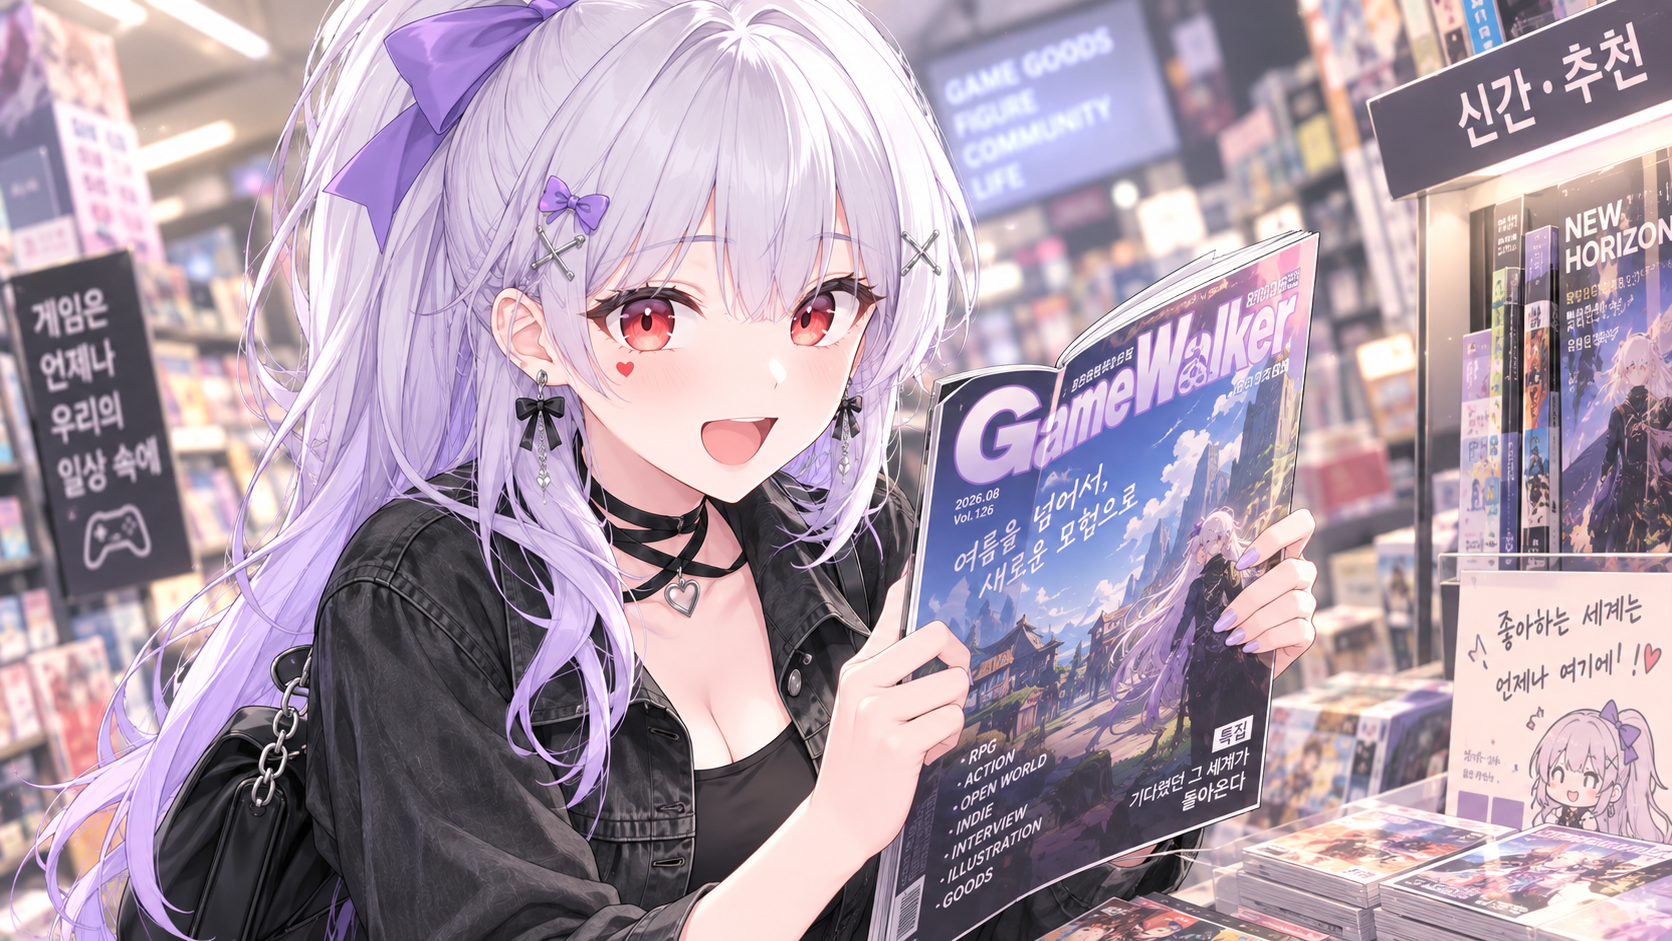
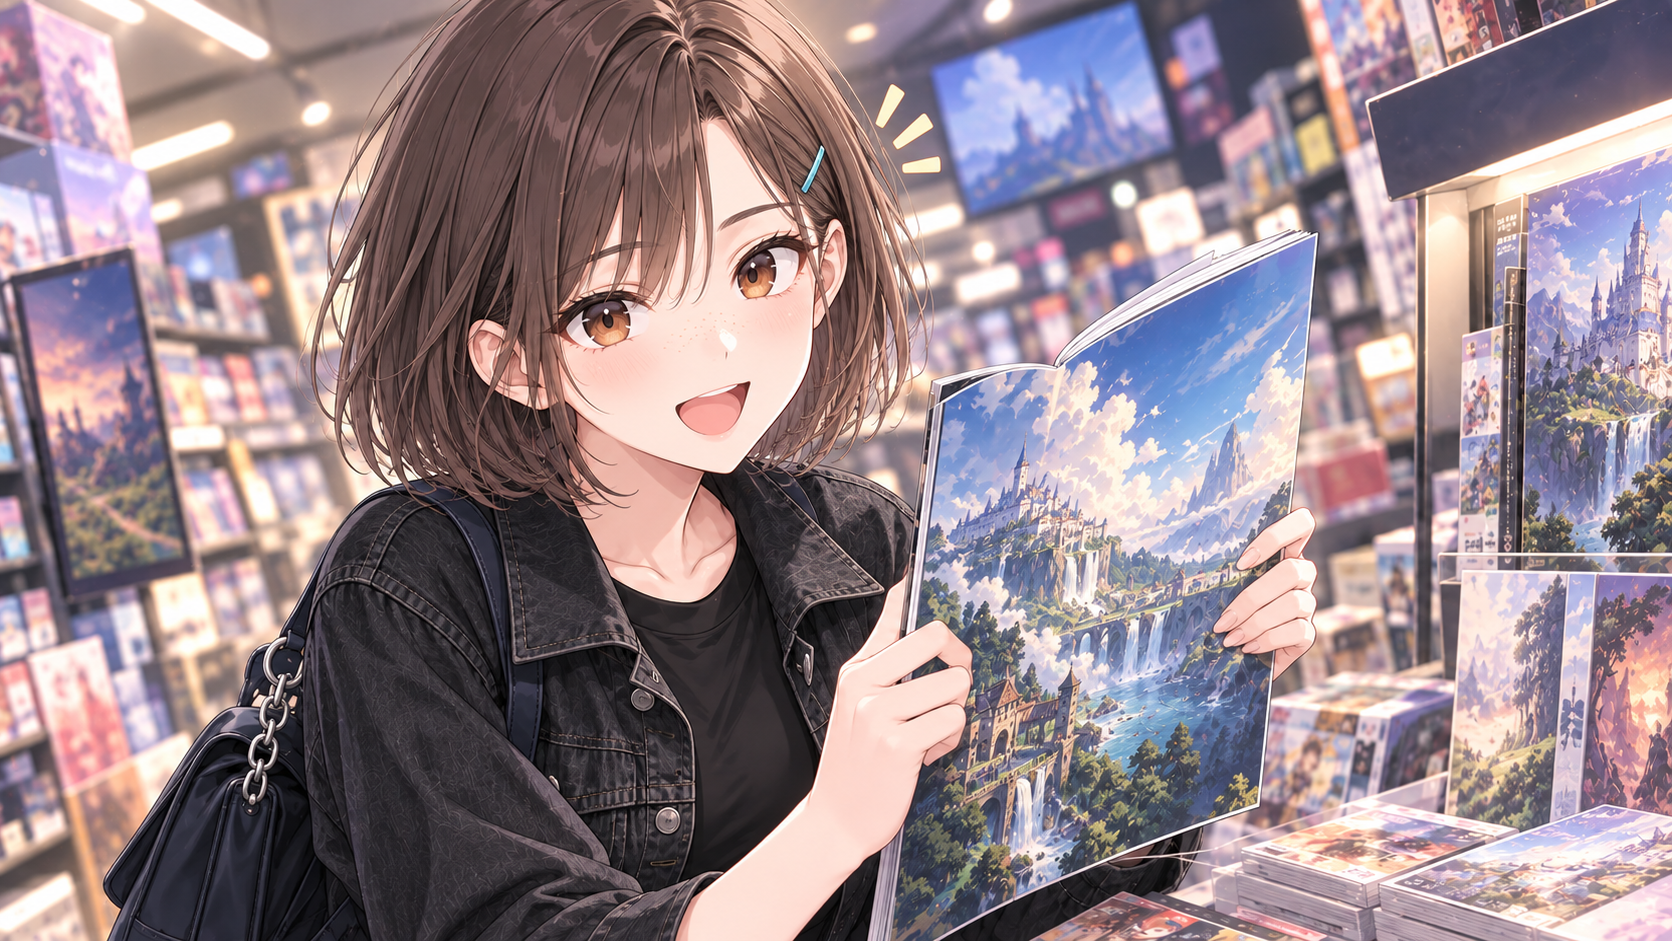
CH12 꾸민 의상 CG 교체

diff --git a/docs/illustration-replacement-prompts.md b/docs/illustration-replacement-prompts.md
@@ -244,7 +244,7 @@ CG는 공통 CG 블록과 파일별 장면 프롬프트를 이어 붙인다. 무
 | [cg-11.png](../assets/cg/cg-11.png) · CH10 동아리 활동 | 원본의 구도와 자세를 유지한다. 화면 중앙 왼쪽 나무 의자에 앉은 온이유가 몸을 오른쪽으로 돌리고, 고개와 시선은 캔버스에 둔다. 오른팔을 화면 중앙을 가로질러 뻗어 오른쪽 전경의 큰 캔버스에 붓을 대며, 다른 손의 팔레트는 무릎 가까운 아래쪽 중앙 오른편에 둔다. 왼쪽 아래 전경에는 흐릿한 물감병과 붓을 두고, 뒤에는 이젤과 작업대·밤 창문을 배치하며 위쪽 따뜻한 펜던트 조명을 유지한다. 새 캐릭터 외형과 교복 위의 물감 묻은 앞치마를 적용하고, 칠판·그림·소품에는 읽을 수 있는 글자·로고를 넣지 않는다. |
 | [cg-12.png](../assets/cg/cg-12.png) · CH11 방학 계획 | 원본의 구도와 자세를 유지한다. 책상 뒤 중앙에 앉은 온이유가 오른쪽 팔꿈치를 책상에 대고 손으로 뺨을 받치며, 왼손으로 화면 왼쪽 어깨 옆에 펼친 접이식 부채를 든다. 책상은 화면 아래 전체를 가로지르고 중앙 아래에 스케치북, 오른쪽 아래에 책 더미와 잘린 전경 필통을 둔다. 맨 오른쪽 가장자리에는 크게 잘린 탁상용 선풍기와 물병을 배치한다. 왼쪽 배경에는 칠판, 뒤에는 책상과 의자, 오른쪽 위에는 열린 창과 여름 하늘을 둔다. 새 캐릭터 외형과 교복을 적용하고 칠판·종이·물병에 읽을 수 있는 글자·로고를 넣지 않는다. |
 | [cg-13-1.png](../assets/cg/cg-13-1.png) · CH12 우연한 만남, 기본 의상 | 원본의 구도와 자세를 유지한다. 허리 위로 보이는 온이유를 왼쪽 절반에 두고, 몸을 오른쪽으로 살짝 돌린 채 밝은 표정으로 화면을 바라본다. 가방끈을 어깨에 걸고 양손으로 중앙 오른쪽의 큰 잡지를 비스듬히 들어 보여주며, 한쪽 검지는 표지를 가리킨다. 머리 옆의 작은 강조선을 살린다. 왼쪽 배경은 흐린 서가, 오른쪽은 게임 잡지와 진열 케이스가 빽빽한 매대로 구성한다. 새 캐릭터 외형과 흰 티셔츠·데님 하의를 적용하고, 표지와 상품에는 글자·로고·인물 초상 없이 가상의 풍경 그래픽만 넣는다. |
-| [cg-13-2.png](../assets/cg/cg-13-2.png) · CH12 우연한 만남, 꾸민 의상 | 같은 서점의 게임 잡지 매대에서 검정 데님 재킷과 검정 바지 차림의 온이유가 잡지를 들고 반갑게 인사한다. 기본 의상 변형과 같은 서사 순간이지만 화면 배치와 손동작은 새로 구성한다. |
+| [cg-13-2.png](../assets/cg/cg-13-2.png) · CH12 우연한 만남, 꾸민 의상 | 원본의 구도와 자세를 유지한다. 허리 위로 보이는 온이유를 화면 왼쪽 절반에 크게 두고, 몸을 오른쪽으로 살짝 돌린 채 밝은 표정으로 바라본다. 중앙 오른쪽에는 크게 비스듬히 세운 잡지를 두고 양손으로 받친다. 한 손은 잡지의 왼쪽 아래를 받치며 표지를 가리키고, 다른 손은 오른쪽 가장자리를 잡는다. 화면 아래 왼쪽에는 은색 체인 장식이 달린 검정 가방을 둔다. 왼쪽은 흐린 서가, 오른쪽은 게임 잡지와 진열 케이스가 빽빽한 매대인 서점 배경을 유지한다. 새 캐릭터 외형에 짧은 검정 데님 재킷과 단정한 검정 상의를 적용한다. 잡지 표지에는 인물이나 읽을 수 있는 글자·로고 없이 가상의 풍경 그래픽만 넣는다. |
 | [cg-14-1.png](../assets/cg/cg-14-1.png) · CH13 첫 데이트, 기본 의상 | 첫 데이트의 해질녘 거리, 편안한 캐주얼 옷차림의 온이유가 따뜻한 가로등 아래 잠깐 걸음을 멈추고 상대를 바라본다. 설렘과 긴장이 섞인 작은 미소, 배경에는 부드러운 보케 조명. |
 | [cg-14-2.png](../assets/cg/cg-14-2.png) · CH13 첫 데이트, 꾸민 의상 | 크림색 니트와 단정한 스커트 차림의 온이유가 봄 저녁 산책길에서 수줍게 웃는다. 같은 첫 데이트 감정선을 유지하되 포즈와 카메라 구도는 독립적으로 만든다. |
 | [cg-15.png](../assets/cg/cg-15.png) · CH14 축제 준비 | 가을 저녁 학교 미술 전시 부스 준비 현장, 교복 차림의 온이유가 캔버스와 전시물을 정리하다 잠시 작품을 바라본다. 아직 한산한 축제 공간에 따뜻한 전구가 켜지기 시작한다. |
@@ -277,4 +277,4 @@ CG는 공통 CG 블록과 파일별 장면 프롬프트를 이어 붙인다. 무
 - 이미지 모델이 만든 문자·로고·워터마크는 제거하고, 필요한 문구는 별도로 편집한다.
 - 인물 외형 참조에는 승인된 공통 캐릭터 기준 이미지만 사용한다. 사용자가 특정 의상 참고 이미지를 제공한 경우에는 지정된 의상 형태만 참고하고 얼굴·머리·포즈·배경은 복사하지 않는다. 결과가 새 공통 캐릭터 기준과 다르면 해당 파일을 다시 생성한다.
 
-이 문서는 교체 대상의 프롬프트와 파일 대응표다. S·W·G·A·C1·P1·C13·P13·C16·P16·C24·P24·GR 스탠딩 세트와 타이틀 표지, cg-01~cg-12 및 cg-13-1의 생성·교체를 완료했으며, 나머지 CG는 한 장씩 진행한다.
+이 문서는 교체 대상의 프롬프트와 파일 대응표다. S·W·G·A·C1·P1·C13·P13·C16·P16·C24·P24·GR 스탠딩 세트와 타이틀 표지, cg-01~cg-12 및 cg-13-1~cg-13-2의 생성·교체를 완료했으며, 나머지 CG는 한 장씩 진행한다.
